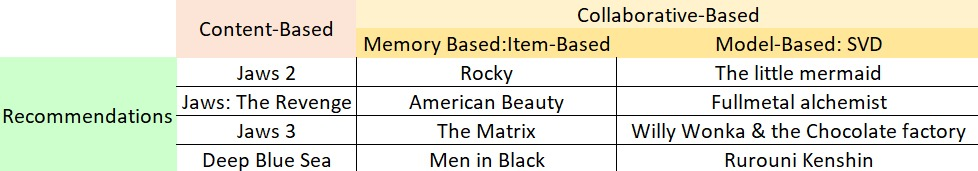
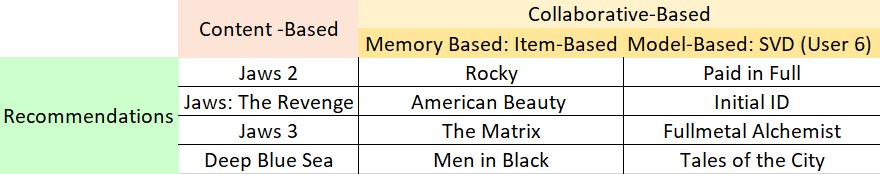
fin.

Changed region(s): [[0.0, 0.0, 1.0, 1.0], [0.583, 0.0292, 0.8284, 0.1462]]

diff --git a/main.tex b/main.tex
@@ -352,7 +352,7 @@ Following figure \ref{similarity(item)} is a part of the similarity matrix of th
         \label{similarity(item)}
 \end{figure}
 
-\item \textbf{\textit{STEP 4: Recommendation Function}}
+\item \textbf{\textit{STEP 3: Recommendation Function}}
 This is the last step which is based on building the recommendation system. Before proceeding with the construction of the function, the similarity scores are standardized and normalized by multiplying the similarity score of the movies with the standardized ratings. The ratings are standardized by subtracting the mean of the ratings which is 2.5.
 
 Further, the standardized ratings are sorted and arranged so that the most similar movies are recommended. Given below \ref{recommend(item)} are the recommendations of the movie \textit{Jaws} with the corresponding similarity scores
@@ -423,11 +423,12 @@ This process is called \textit{\textbf{Singular Value Decomposition.}}
 \vspace{2pt}
     This step crucially aims to find the dot product of the three decomposed matrices to find one matrix that is called the reconstructed matrix.
 
-    The reconstructed matrix has movies in rows and user ratings in columns. The matrix is formed by predicting the ratings for the movies that the user has not seen by reading the patterns of all the watched movies. For the movies which the user has seen and rated the ratings in the matrix are the same as the original.
+  
 
 \item \textbf{\textit{STEP 3: Recommendation Function}}:
+  
+    The output of Singular Value Decomposition for user ID 6 provides information about the latent factors that represent this user's preferences and the predicted ratings for all items (movies) based on these preferences. Latent factors represent THE underlying characteristics or features that describe the relationships between users and movies. These factors are inferred from the patterns present in the ratings matrix.
 
-    The threshold is kept at the Top 5 rated movies in the entire movie dataset which are similar to the input movie, the recommendations are then made based on the predictions made by the algorithm
     
     In case the movies do not exist in the dataset then, the top movies are suggested
 \begin{figure} [H]
@@ -468,7 +469,7 @@ This process is called \textit{\textbf{Singular Value Decomposition.}}
 \begin{figure}[H]
         
         \centering
-        \includegraphics[height=3.7cm]{figures/recommend(content).png}
+        \includegraphics[height=3.7cm]{figures/content_output.png}
         \caption{Recommendations using Content-Based Filtering}
         \label{recommend(content)}
 \end{figure}
@@ -486,7 +487,12 @@ Following figure \ref{conclude} shows the recommendations from all the three rec
         \label{conclude}
 \end{figure}
 
-The recommendations made using content based recommendation system seem very similar whereas the recommendations made using SVD seem to be comparatively dissimilar
+\begin{itemize}
+    \item The recommendations through content based are very similar as they are based on parameters like cast and director etc. The Memory Based recommendations are based on user similarities instead of movie similarities, hence, dissimilar movies
+    \item The output of Singular Value Decomposition provides recommendations of movies for User 6 based on its past interactions 
+
+
+\end{itemize}
 
 \section{LIMITATIONS}
 \begin{itemize}
